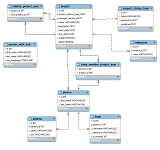
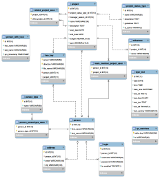
issue #869 (Examples errors)
- fix the `assets/php/examples/code_generator/intro.php` The picture of the db structure is outdated.
 - The picture is generated and tuned in the mysql-warkbench program (see the Reverse engineering function in program menu)
 - the data_model.mwb file is added as a sourse to change the scheme in the future
 - note about postgresql sql script is added
 - links to examples mentioned are added
 - link to the new example for qc_watchers table is added

diff --git a/code_generator/intro.php b/code_generator/intro.php
@@ -16,9 +16,9 @@
 		<strong><a href="<?php _p(__VIRTUAL_DIRECTORY__ . __DEVTOOLS_ASSETS__ . '/codegen.php'); ?>" class="bodyLink">code generate</a></strong>
 		the corresponding objects <em>before</em> trying to any of the further code generation examples.</p>
 
-	<p>Note that there is also a SQL Server version of this database script called <strong>sql_server.sql</strong>.</p>
+	<p>Note that there is also a SQL Server version of this database script called <strong>sql_server.sql</strong>. And PostgreSql version called <strong>pgsql.sql</strong>.</p>
 
-	<p>In the script, we have six tables defined.  The bulk of our examples will focus on the main three
+	<p>In the script, we have some tables defined.  The bulk of our examples will focus on the main three
 		tables of the database:</p>
 	<ul>
 		<li><strong>login</strong></li>
@@ -29,8 +29,11 @@
 	<p>The <strong>team_member_project_assn</strong> table handles the many-to-many relationship between
 		<strong>person</strong> and <strong>project</strong>.
 		The <strong>project_status_type</strong> table is a <strong>Type Table</strong> which will be discussed in
-		the example for <strong>Type Tables</strong>.  Finally the <strong>person_with_lock</strong> table is
-		specifically used by the example for <strong>Optimistic Locking</strong>.</p>
+		the example for <a href="../more_codegen/type_tables.php">Type Tables</a>.
+		The <strong>qc_watchers</strong> table is a special system table which will be discussed in
+		the example for <a href="../events_actions/watcher.php">Automatic Refreshing of Controls</a>.
+		Finally the <strong>person_with_lock</strong> table is specifically used by the example for
+		<a href="../more_codegen/optimistic_locking.php">Optimistic Locking</a>.</p>
 </div>
 
 <div id="demoZone">
